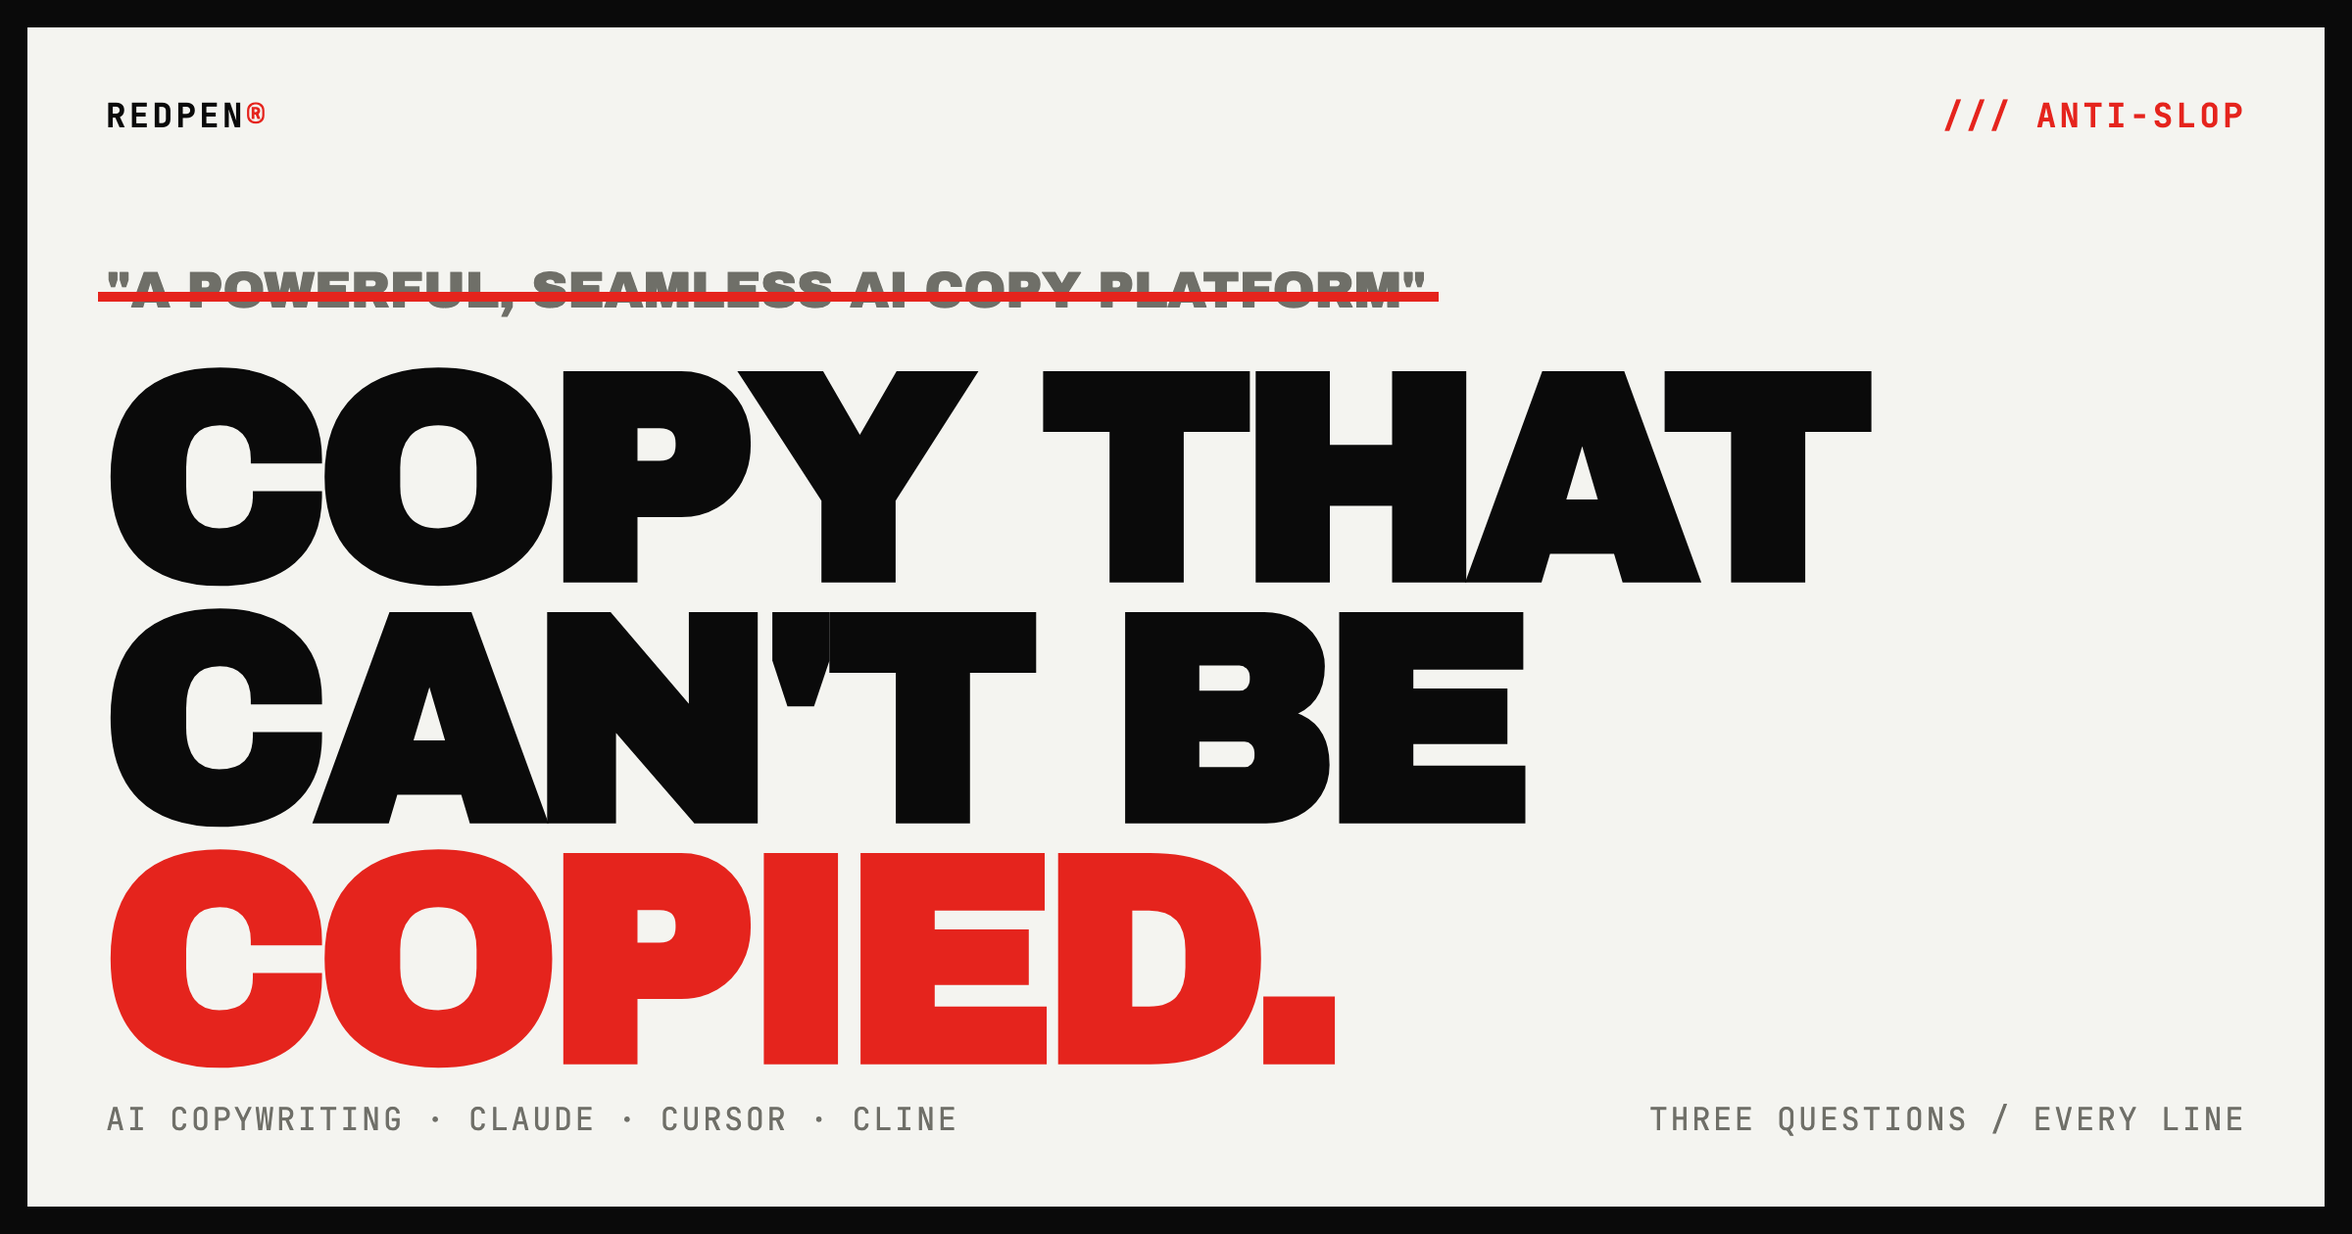
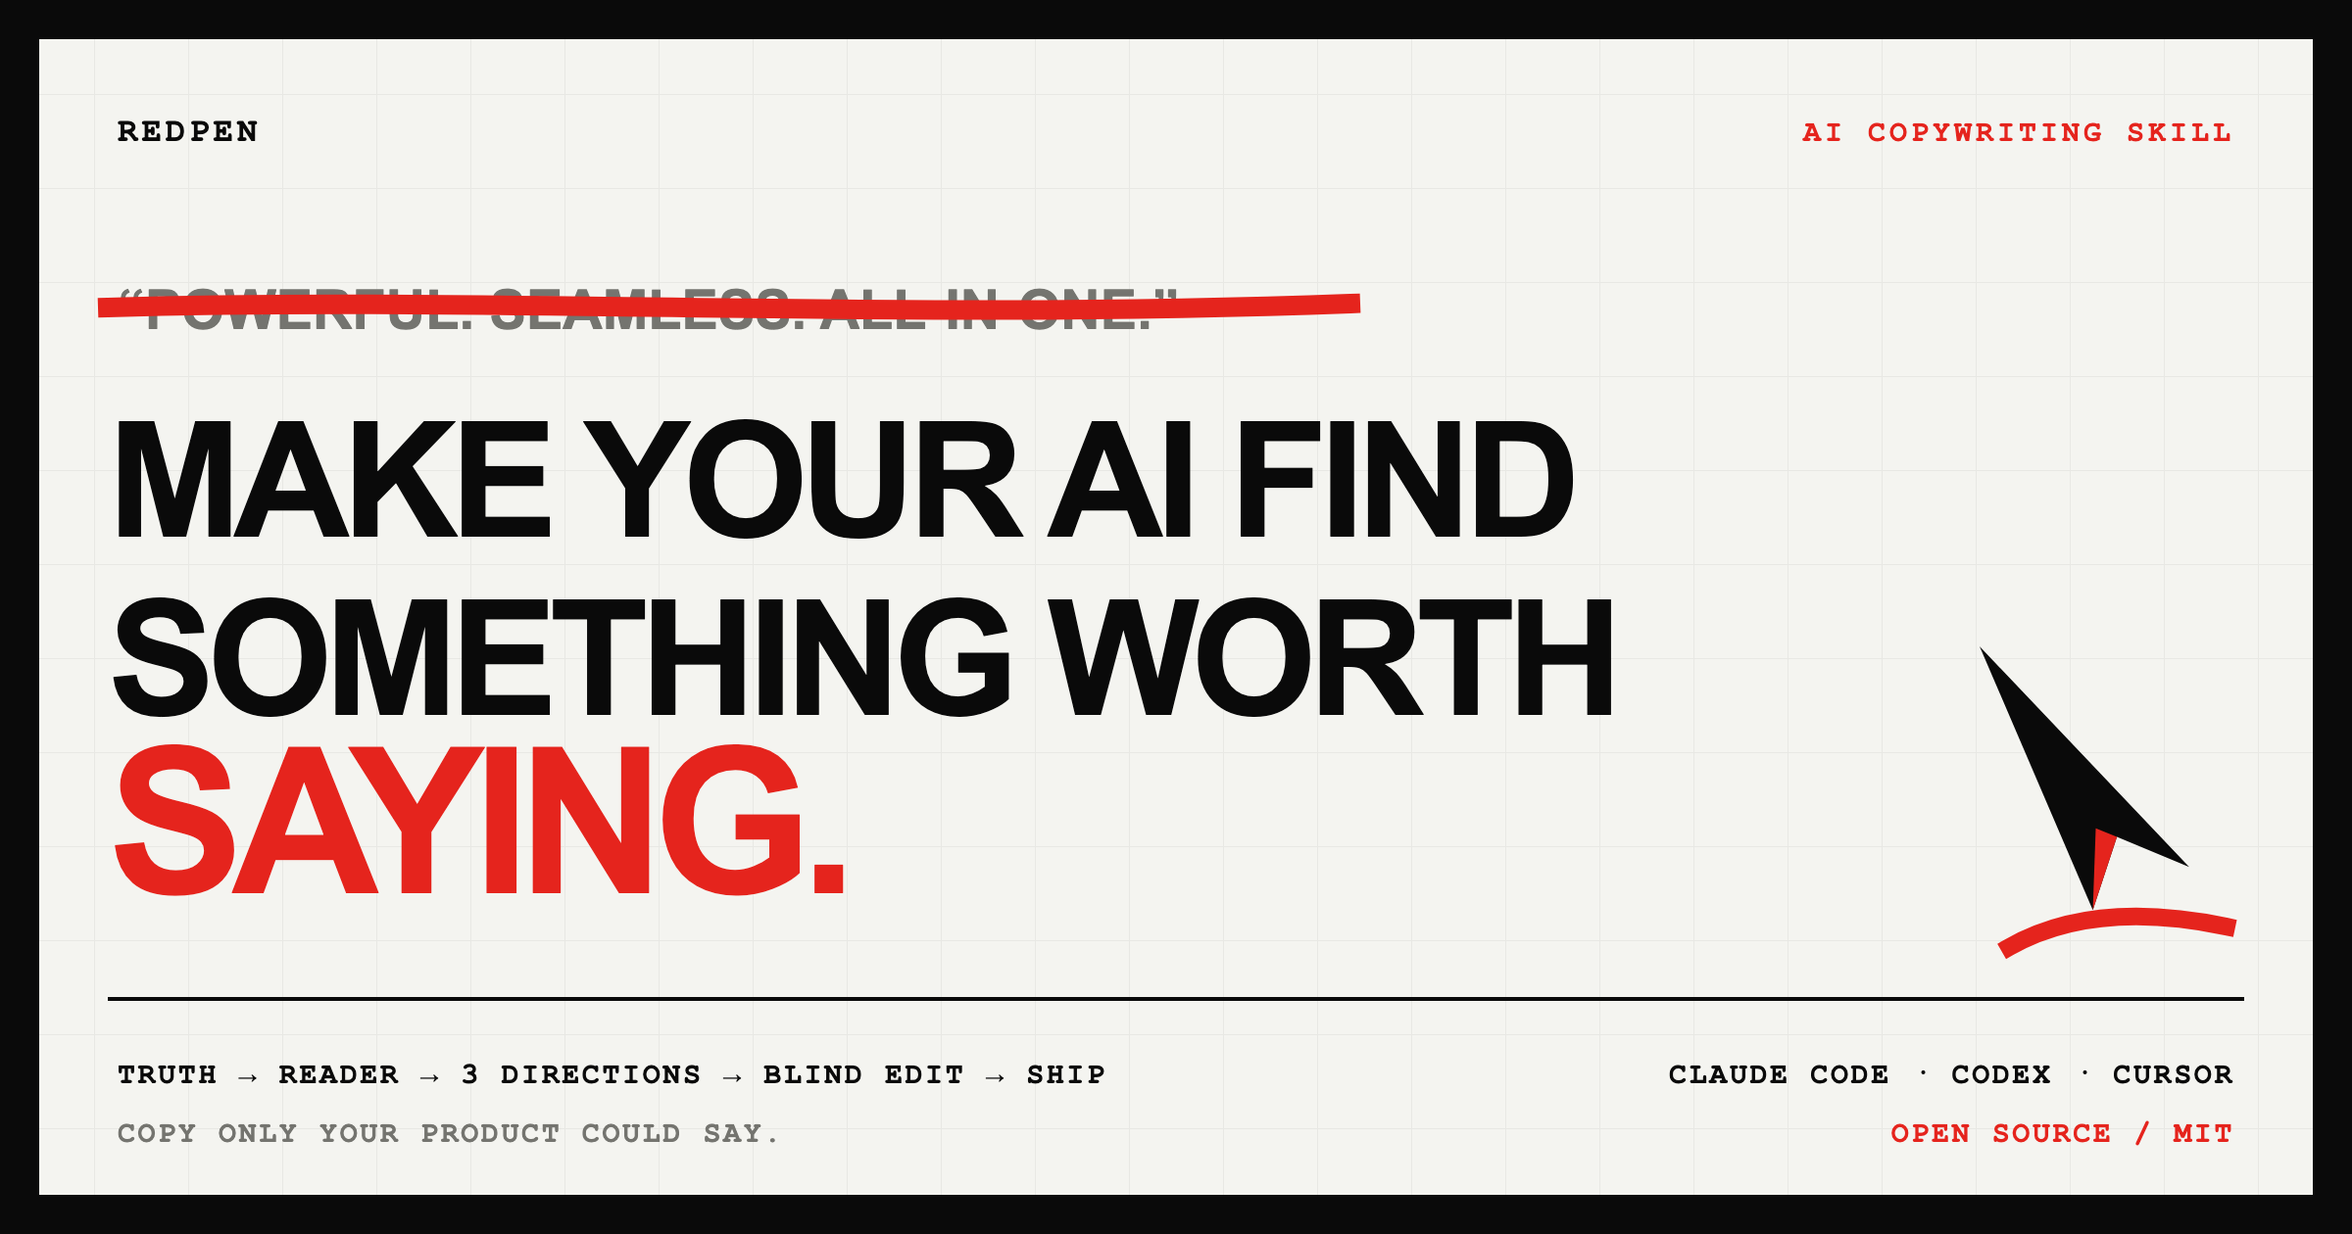
Polish public positioning and contributor path

Changed region(s): [[0.0, 0.0, 1.0, 0.9905]]

diff --git a/docs/index.html b/docs/index.html
@@ -4,28 +4,28 @@
 <meta charset="UTF-8" />
 <meta name="viewport" content="width=device-width, initial-scale=1.0" />
 <script>document.documentElement.className='js'</script>
-<title>Redpen — give your AI an editor, not another prompt</title>
-<meta name="description" content="Redpen is an editorial skill for Claude Code, Cursor and Copilot. It gathers product truth, enters the reader's moment, compares distinct creative territories, and cuts generic AI copy before it ships." />
+<title>Redpen — AI copywriting with taste for Claude Code and AI agents</title>
+<meta name="description" content="Redpen is an AI copywriting skill for Claude Code, Codex, Cursor and other agents. It turns product truth and a real reader moment into specific, human landing pages, headlines, emails and launch copy." />
 <meta name="robots" content="index, follow, max-image-preview:large" />
 <meta name="author" content="Yerdaulet Damir" />
 <link rel="canonical" href="https://yerdaulet-damir.github.io/redpen/" />
 <meta name="theme-color" content="#F4F4F0" />
 <meta property="og:type" content="website" />
 <meta property="og:site_name" content="Redpen" />
-<meta property="og:title" content="Redpen — give your AI an editor" />
-<meta property="og:description" content="Truth first. Reader moment. Three creative territories. Blind preference loop. Then picture it, prove it, own it." />
+<meta property="og:title" content="Redpen — make your AI find something worth saying" />
+<meta property="og:description" content="AI copywriting with taste. Truth first, one real reader, three creative directions, and a blind edit before anything ships." />
 <meta property="og:url" content="https://yerdaulet-damir.github.io/redpen/" />
 <meta property="og:image" content="https://yerdaulet-damir.github.io/redpen/og.png" />
 <meta name="twitter:card" content="summary_large_image" />
-<meta name="twitter:title" content="Redpen — give your AI an editor" />
-<meta name="twitter:description" content="Not another copy prompt. A truth-first editorial loop for Claude Code, Cursor and Copilot." />
+<meta name="twitter:title" content="Redpen — make your AI find something worth saying" />
+<meta name="twitter:description" content="AI copywriting with taste for Claude Code, Codex, Cursor and other agents." />
 <meta name="twitter:creator" content="@aimyerdaulet" />
 <link rel="preconnect" href="https://fonts.googleapis.com" />
 <link rel="preconnect" href="https://fonts.gstatic.com" crossorigin />
 <link href="https://fonts.googleapis.com/css2?family=Archivo+Black&family=Archivo:wght@400;500;600;700&family=JetBrains+Mono:wght@400;500;700&display=swap" rel="stylesheet" />
 
 <script type="application/ld+json">
-{"@context":"https://schema.org","@type":"SoftwareApplication","name":"Redpen","applicationCategory":"DeveloperApplication","operatingSystem":"Claude Code, Cursor, Cline, Copilot","description":"A truth-first editorial skill for AI coding agents. Redpen models the reader's real moment, develops distinct creative territories, compares them blind, and finishes every line with concrete, falsifiable, ownable copy checks.","offers":{"@type":"Offer","price":"0","priceCurrency":"USD"},"author":{"@type":"Person","name":"Yerdaulet Damir","url":"https://yerdaulet.xyz"}}
+{"@context":"https://schema.org","@type":"SoftwareApplication","name":"Redpen","applicationCategory":"BusinessApplication","operatingSystem":"Claude Code, Codex, Cursor, Cline, Windsurf, Copilot","description":"An open-source AI copywriting skill that turns product truth and a real reader moment into specific, human landing pages, headlines, emails, launch posts, product copy, and scripts.","offers":{"@type":"Offer","price":"0","priceCurrency":"USD"},"author":{"@type":"Person","name":"Yerdaulet Damir","url":"https://yerdaulet.xyz"}}
 </script>
 
 <style>
@@ -155,14 +155,14 @@
 <div class="grain"></div>
 
 <div id="pre">
-  <span class="l">REDPEN® / LOADING</span>
+  <span class="l">REDPEN / LOADING</span>
   <span class="c">RED<b>·</b></span>
 </div>
 
 <div class="frame">
 
   <nav>
-    <span class="brand">REDPEN<b>®</b></span>
+    <span class="brand">REDPEN</span>
     <span class="mid">[ COPYWRITING SKILL ]</span>
     <a class="cta" href="https://github.com/yerdaulet-damir/redpen">↗ INSTALL</a>
   </nav>
@@ -171,12 +171,12 @@
   <header class="hero">
     <div class="idx">FIG.01<br>REV 1.0<br>MIT</div>
     <div class="kick reveal">
-      <span>[ CLAUDE CODE · CURSOR · CLINE · COPILOT ]</span>
+      <span>[ CLAUDE CODE · CODEX · CURSOR · CLINE · COPILOT ]</span>
       <span class="red">/// ANTI-SLOP</span>
     </div>
     <div class="slopline reveal">"A POWERFUL, SEAMLESS AI COPY PLATFORM"<span class="bar" data-strike></span></div>
-    <h1 class="reveal">GIVE YOUR AI<br>AN <span class="r">EDITOR.</span><br>NOT A TEMPLATE.</h1>
-    <p class="sub reveal">Truth first. One real reader moment. Three different arguments. Blind preference before polish.</p>
+    <h1 class="reveal">MAKE YOUR AI FIND<br>SOMETHING WORTH<br><span class="r">SAYING.</span></h1>
+    <p class="sub reveal">AI copywriting with taste. Product truth first. One real reader. Three different directions. Blind edit before polish.</p>
     <div class="btns reveal">
       <a class="p" href="https://github.com/yerdaulet-damir/redpen">↗ GET REDPEN</a>
       <a class="s" href="#method">THE METHOD</a>
@@ -211,8 +211,8 @@
   <section class="ba">
     <div class="row reveal"><div class="slop">Seamless alerts that keep developers informed.<span class="bar" data-strike></span></div><div class="good">Like console.log, but it arrives on your phone.</div></div>
     <div class="row reveal"><div class="slop">The easiest way to record and share your screen.<span class="bar" data-strike></span></div><div class="good">Record the bug before the meeting starts. No desktop app.</div></div>
-    <div class="row reveal"><div class="slop">AI code review tailored to your team.<span class="bar" data-strike></span></div><div class="good">It reads your last 200 merged PRs before it reviews the next one.</div></div>
-    <div class="row reveal"><div class="slop">Never worry about unpaid invoices again.<span class="bar" data-strike></span></div><div class="good">The invoice tab you reopen every Friday can follow up without you.</div></div>
+    <div class="row reveal"><div class="slop">AI-powered reminders that eliminate payment stress.<span class="bar" data-strike></span></div><div class="good">The invoice tab you reopen every Friday can follow up without you.</div></div>
+    <div class="row reveal"><div class="slop">A powerful productivity app that helps you get more done.<span class="bar" data-strike></span></div><div class="good">Every task you'll do today, on one screen, sorted by what's overdue.</div></div>
   </section>
 
   <!-- INSTALL -->
@@ -233,7 +233,7 @@
 
   <!-- FOOTER -->
   <footer>
-    <div class="wordmark reveal">RED<span class="r">PEN</span>®</div>
+    <div class="wordmark reveal">RED<span class="r">PEN</span></div>
     <div class="footmeta">
       <span>© 2026 · MIT · CURATED BY YERDAULET DAMIR</span>
       <a href="https://github.com/yerdaulet-damir/redpen">GITHUB ↗</a>

diff --git a/README.md b/README.md
@@ -1,22 +1,58 @@
-<div align="center">
+<p align="center">
+  <a href="https://yerdaulet-damir.github.io/redpen/">
+    <img src="assets/redpen-cover.svg" alt="Redpen — make your AI find something worth saying" width="100%">
+  </a>
+</p>
 
-# ✍ Redpen
+<h1 align="center">Redpen</h1>
 
-### Give your AI an editor, not another prompt template.
+<p align="center"><strong>AI copywriting with taste for Claude Code, Codex, Cursor, Cline, Windsurf, and Copilot.</strong></p>
 
-**Redpen gathers product truth, enters the reader's real moment, develops three different creative territories, and compares them blind before it ships a line.** Harry Dry's three questions still finish the work. They are no longer asked to do the whole job.
+<p align="center">
+  Write landing pages, headlines, emails, launch posts, product copy, and scripts that sound specific, human, and impossible for a competitor to copy.
+</p>
 
-Works in Claude Code, Cursor, Cline, Windsurf, Copilot, and any agent that reads a rules file.
-
-</div>
+<p align="center">
+  <a href="#install"><strong>Install</strong></a> ·
+  <a href="skills/redpen/SKILL.md"><strong>Read the skill</strong></a> ·
+  <a href="examples/"><strong>See examples</strong></a> ·
+  <a href="benchmarks/"><strong>Inspect the benchmark</strong></a> ·
+  <a href="CONTRIBUTING.md"><strong>Contribute taste</strong></a>
+</p>
 
 ---
 
-You know the copy. "A powerful, seamless, all-in-one platform that empowers creators to unlock their potential." It's grammatical. It's confident. And it says **nothing** — you can't picture it, you can't prove it, and any competitor could sign the exact same line.
+Most AI copy tools begin by drafting. Redpen begins by finding **what is true, who needs to hear it, and what that person is living through right now**. Only then does it write.
 
-That's slop. Not because it's wrong, but because it's forgettable.
+Give it a rough brief or an existing page. Redpen builds a truth ledger, enters one reader's real moment, develops three genuinely different creative directions, compares them blind, and rewrites the winner until the copy feels discovered rather than generated.
 
-Redpen is the old ad man with the red pen, living inside your agent. You hand him a paragraph; he asks what happened in the reader's day, what is actually true about the product, and which phrase is carrying the line. Then he crosses out everything else.
+## From a claim anyone could make to a moment one reader knows
+
+> **Before:** Never worry about unpaid invoices again.
+>
+> **After:** **The invoice tab you reopen every Friday can follow up without you.**
+>
+> Approve the reminder once. It sends on your schedule when an invoice turns overdue.
+
+The rewrite does not sprinkle personality onto the same claim. It uses a supplied product truth and a repeated moment from the reader's week. The first line creates recognition; the second earns belief.
+
+Redpen can write from zero, rewrite a weak draft, compare alternatives, or edit a long page. It is not an AI detector, a synonym spinner, or another list of banned phrases.
+
+## Help build the voice AI does not find by averaging
+
+Redpen is open source because taste should not collapse into one person's list
+of favorite lines. Copywriters, founders, designers, researchers, and people
+with a sharp ear are invited to contribute real briefs, reader moments,
+before/after edits, benchmark cases, and methods that make an agent find a
+point of view instead of predicting the safest next phrase.
+
+A useful contribution gives the agent better evidence, a more exact reader, a
+real tension, or a harder editorial choice. It does not add another headline
+formula, a longer banned-word list, fake vulnerability, or instructions to
+sprinkle slang over generic copy.
+
+Start with the [contribution guide](CONTRIBUTING.md). Bring work a human editor
+would stop at, argue over, and remember.
 
 ## The three questions are gates, not the engine
 
@@ -58,8 +94,8 @@ reader moment rather than replacing adjectives with better adjectives.
 |---|---|
 | "Seamless alerts that keep developers informed anywhere." | **"Like `console.log`, but it arrives on your phone."** |
 | "The easiest way to record and share your screen." | **"Record the bug before the meeting starts. No desktop app."** |
-| "AI code review tailored to your team." | **"It reads your last 200 merged PRs before it reviews the next one."** |
-| "Never worry about unpaid invoices again." | **"The invoice tab you reopen every Friday can follow up without you."** |
+| "AI-powered reminders that eliminate payment stress." | **"The invoice tab you reopen every Friday can follow up without you."** |
+| "A powerful productivity app that helps you get more done." | **"Every task you'll do today, on one screen, sorted by what's overdue."** |
 
 Each line on the right starts from something visible or verifiable. More
 importantly, each one meets a reader in a recognizable moment.

diff --git a/CONTRIBUTING.md b/CONTRIBUTING.md
@@ -1,0 +1,86 @@
+# Contributing to Redpen
+
+Redpen is an open attempt to give AI agents editorial taste — not by making
+them imitate a quirky person, but by teaching them to find product truth,
+reader recognition, tension, proof, and language worth keeping.
+
+We want contributors with different industries, cultures, rhythms, and kinds
+of taste. You do not need to be a professional copywriter. You do need to show
+why the line works beyond "it sounds better."
+
+## What belongs here
+
+- **Real briefs** with enough product truth to write without invention.
+- **Reader moments** drawn from an actual task, frustration, resistance, or
+  decision — not a demographic persona.
+- **Before/after examples** where the rewrite changes the argument or emotional
+  movement, not merely the adjectives.
+- **Benchmark cases** that expose generic, bloodless, copied, or over-polished
+  model behavior.
+- **Editorial methods** that can be explained, challenged, and tested.
+- **Agent adapters** that preserve the same behavior in another tool.
+
+Anonymized work is welcome. Remove private data, keep the concrete facts that
+made the editorial decision possible, and label supplied facts as unverified.
+
+## What does not belong
+
+- Giant lists of words an AI is never allowed to use.
+- Headline formulas presented as substitutes for understanding the product.
+- Fake customer quotes, metrics, urgency, vulnerability, slang, or profanity.
+- "Humanized" copy made human only through typos, fragments, and casual tone.
+- Three rewrites that make the same argument with different nouns.
+- A preferred output without the brief, evidence, or editorial reason.
+
+The goal is not to hide that AI helped. The goal is to make the work specific,
+truthful, attractive, and alive enough that a person would choose to read the
+next line.
+
+## Contribute an example
+
+Add a Markdown file under `examples/` with this compact structure:
+
+1. **Surface** — where the copy will appear and what it must do.
+2. **Truth ledger** — observed, provided, inferred, and unknown.
+3. **Reader moment** — scene, inner sentence, pressure, resistance, after-state.
+4. **Original** — the line or draft being replaced.
+5. **Three territories** — scene, fact/contrast, mechanism/identity.
+6. **Preference result** — winning fragment and the named defect it beat.
+7. **Final copy** — the smallest complete unit as it would actually appear.
+
+Do not reverse-engineer the explanation after choosing a clever line. The
+ledger and reader moment should make the final copy feel earned.
+
+## Contribute a benchmark case
+
+Benchmark briefs must be self-contained, contain no private information, and
+make invented proof a hard failure. A useful case creates a real editorial
+choice: two candidates should be plausibly good for different reasons.
+
+When reporting results:
+
+- keep candidates anonymous during judging;
+- swap candidate order and require a stable verdict;
+- record model, date, commit, and skill hash;
+- quote the winning fragment and name the losing defect;
+- treat results as regression evidence, not conversion proof.
+
+See [`benchmarks/README.md`](benchmarks/README.md) for the current protocol.
+
+## Pull requests
+
+Keep each pull request about one behavioral improvement. Explain:
+
+- what generic behavior the agent currently produces;
+- what new evidence or editorial move changes that behavior;
+- how another contributor can tell whether the change worked;
+- which examples or benchmark cases demonstrate it.
+
+Run the repository tests before opening the pull request:
+
+```bash
+python3 -m unittest discover -s benchmarks -p 'test_*.py'
+```
+
+If a contribution only makes Redpen longer, it is not finished. Any instruction
+that is not changing the work is working against it.

diff --git a/examples/README.md b/examples/README.md
@@ -1,6 +1,8 @@
 # Redpen examples
 
-Worked before → after teardowns. Each one shows a real copy problem, the question it fails, and the rewrite that fixes it. Run your own copy through the same three questions: can I visualize it, can I falsify it, can nobody else say it.
+Worked before → after teardowns. Each one shows the truth ledger, reader moment,
+creative choice, and finishing checks behind a stronger line. The three Harry
+Dry questions still finish the work; they no longer pretend to do the whole job.
 
 - [From correct copy to felt copy](emotional-rewrite.md) — why three yeses are not enough
 - [Same product, three readers](diagnose-before-you-write.md) — why the sentence was never the variable
